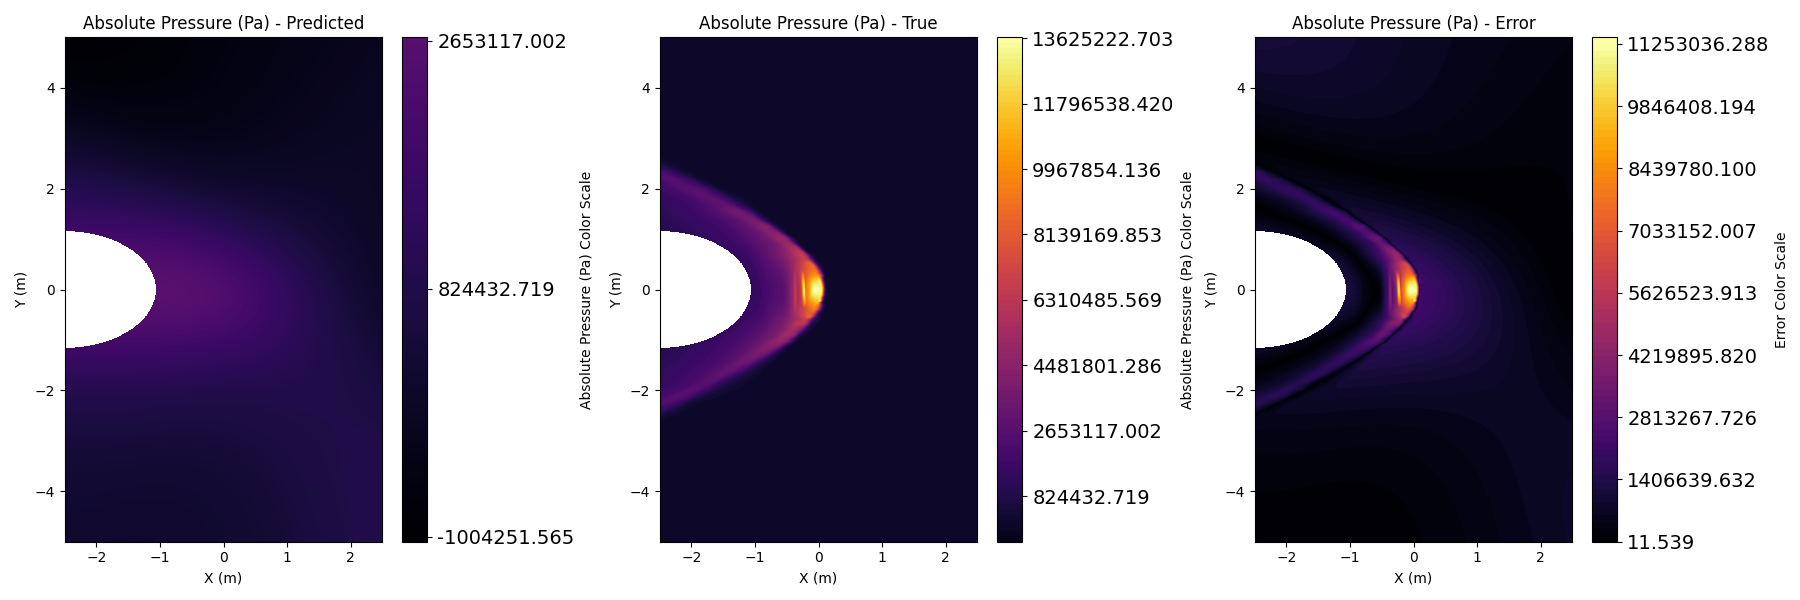
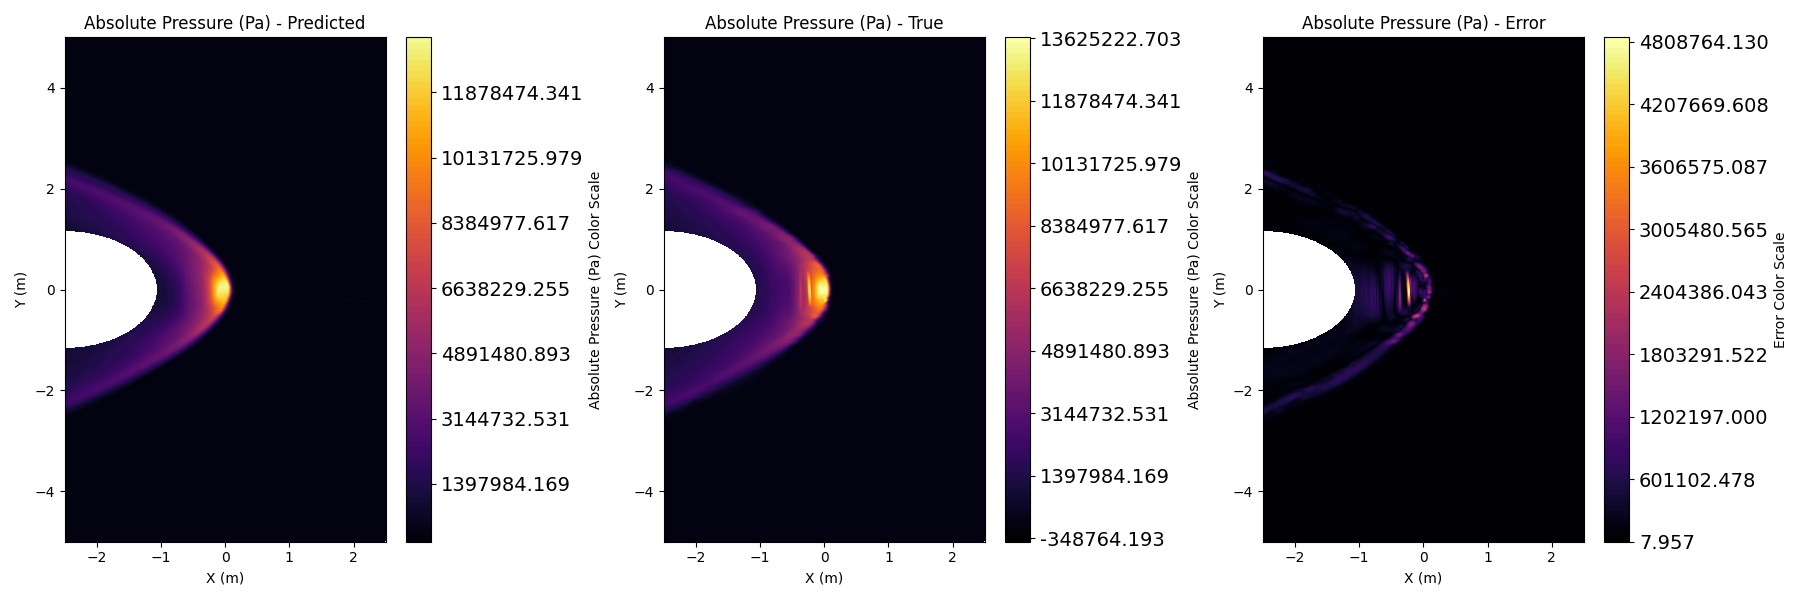
restored the already trained model, except for the loss history. This model works though

diff --git a/main.py b/main.py
@@ -5,7 +5,7 @@ if __name__ == "__main__":
     
     
     ellipse_model = Surrogate(config_path="configs/config_ellipse.yaml")
-    ellipse_model._train()
+    # ellipse_model._train()
     ellipse_model._infer_and_validate(file="Data/ellipse_data/ellipse_data_unseen2.csv")
     ellipse_model._inference(file="Data/ellipse_data/ellipse_data_unseen2.csv")
 
